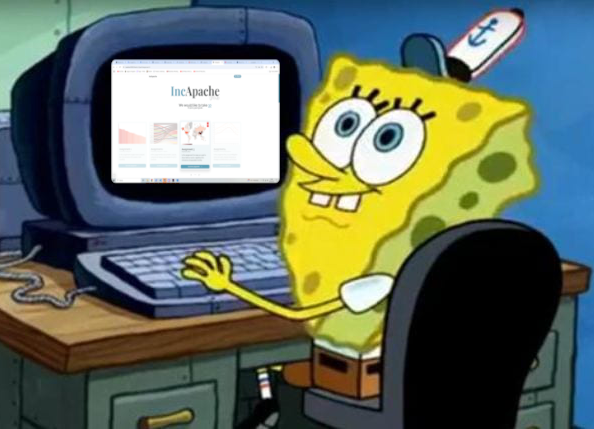
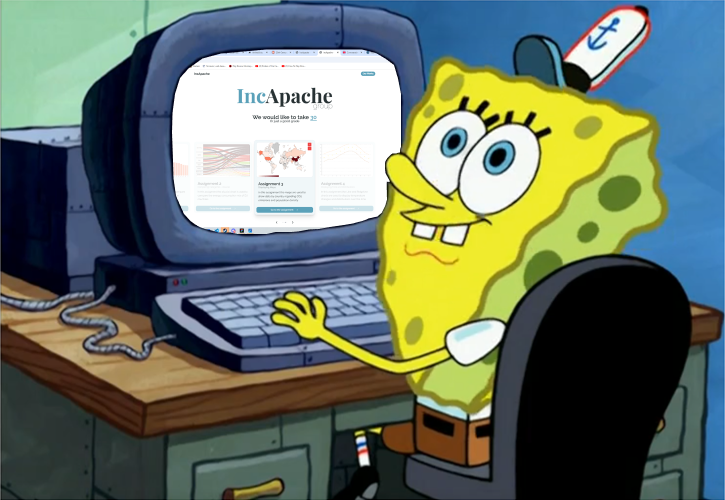
Maybe finished final project page, possible design for final project section of the home, fixed footer.

diff --git a/web-application/src/app/final-project/_components/introduction.tsx b/web-application/src/app/final-project/_components/introduction.tsx
@@ -36,7 +36,7 @@ export default function IntroductionFinalProject() {
         world effectively requires the right skills, as technological literacy
         is becoming increasingly essential. Our group has chosen the European
         Union as its area of interest and has decided to try to answer three
-        questions about this phenomenon:
+        questions about this phenomenon.
       </p>
 
       <div className="flex flex-col gap-12 items-center pt-16 w-full text-center">
@@ -49,7 +49,10 @@ export default function IntroductionFinalProject() {
                 What are the reasons why people do not have internet in their
                 homes?
               </li>
-              <li>How has usage changed over the years?</li>
+              <li>
+                How has the percentage of people who have never used the
+                Internet changed over the years?
+              </li>
               <li>How many people use a computer every day?</li>
             </ul>
           </div>
@@ -73,13 +76,15 @@ export default function IntroductionFinalProject() {
           <div className="flex flex-col gap-4 justify-center lg:text-left">
             <H3>What do we use this internet for?</H3>
             <ul className="text-lg">
-              <li>How many have access to the internet in their homes?</li>
+              <li>How often do people use the Internet?</li>
+              <li>Does the frequency of Internet use vary by age group?</li>
               <li>
-                What are the reasons why people do not have internet in their
-                homes?
+                Do people come across derogatory messages while surfing the web?
               </li>
-              <li>How has usage changed over the years?</li>
-              <li>How many people use a computer every day?</li>
+              <li>
+                What percentage of people do financial activities on the
+                internet?
+              </li>
             </ul>
           </div>
         </div>
@@ -88,13 +93,19 @@ export default function IntroductionFinalProject() {
           <div className="flex flex-col gap-4 justify-center lg:text-right">
             <H3>How skilled we are in this digital world?</H3>
             <ul className="text-lg">
-              <li>How many have access to the internet in their homes?</li>
               <li>
-                What are the reasons why people do not have internet in their
-                homes?
+                What is our level of digital skills and how do these change over
+                time?
               </li>
-              <li>How has usage changed over the years?</li>
-              <li>How many people use a computer every day?</li>
+              <li>
+                What is the distribution of male and female employees who
+                possess ICT skills?
+              </li>
+              <li>*PLACE HOLDER*</li>
+              <li>
+                Does the number of people who have ICT skills change depending
+                on their education level?
+              </li>
             </ul>
           </div>
           <Image

diff --git a/web-application/src/app/_components/final-project.tsx b/web-application/src/app/_components/final-project.tsx
@@ -1,11 +1,38 @@
 import Container from '@/components/container';
 import SectionTitle from './section-title';
+import { Button } from '@/components/ui/button';
+import Link from 'next/link';
+import { ChevronRight } from 'lucide-react';
 
 export default function FinalProject() {
   return (
-    <section className="min-h-screen scroll-mt-24" id="final-project">
-      <Container>
-        <SectionTitle>Final Project</SectionTitle>
+    <section className="scroll-mt-24" id="final-project">
+      <Container className="px-4 sm:px-10 md:px-12">
+        <SectionTitle>
+          What's the digitalization level of EU countries?
+        </SectionTitle>
+        <p className="text-lg text-center pt-6">
+          The internet has evolved at an unprecedented pace, transforming from a
+          simple communication tool into a fundamental pillar of modern society.
+          Alongside digitalization, it now permeates nearly every aspect of
+          daily life, from education and work to social interactions and
+          entertainment. This rapid expansion has created countless
+          opportunities but also challenges for individuals and businesses
+          alike. Navigating this digital world effectively requires the right
+          skills, as technological literacy is becoming increasingly essential.
+          Our group has chosen the European Union as its area of interest and
+          has decided to try to answer three questions about this phenomenon.
+        </p>
+        <div className="px-3 w-[min(300px,_100%)] mx-auto pt-12">
+          <Button
+            asChild
+            className="w-full text-lg rounded-[calc(theme(borderRadius.xl)_-_1px)]"
+          >
+            <Link href={'/final-project'} className="">
+              Learn more <ChevronRight className="ml-2" />
+            </Link>
+          </Button>
+        </div>
       </Container>
     </section>
   );

diff --git a/web-application/src/app/layout.tsx b/web-application/src/app/layout.tsx
@@ -30,6 +30,20 @@ export default function RootLayout({
     <html lang="en">
       <body className={`${sans_Serif.variable}\t${serif_font.variable}`}>
         {children}
+        <footer className="mt-auto pt-16">
+          <div className="flex justify-evenly p-6 bg-primary text-primary-foreground">
+            <div className="w-full">
+              <div className="w-fit">
+                <h1 className="font-serif font-bold text-lg/3">IncApache</h1>
+                <h2 className="font-serif text-xs/3 text-end">Group</h2>
+              </div>
+            </div>
+            <p className="w-full text-end text-base/4">
+              <span className="font-semibold">University of Genova</span>
+              <br /> project for Data Visualization Exam
+            </p>
+          </div>
+        </footer>
       </body>
     </html>
   );

diff --git a/web-application/src/app/final-project/_components/arguments.tsx b/web-application/src/app/final-project/_components/arguments.tsx
@@ -48,7 +48,7 @@ const Arguments: React.FC<ArgumentsProps> = ({ className }) => {
   return (
     <section
       className={cn(
-        'flex flex-wrap items-center justify-center overflow-x-hidden pt-32 pb-9 scroll-mt-24 xs:mx-8 gap-8',
+        'flex flex-wrap items-center justify-center overflow-x-hidden pt-12 sm:pt-20 pb-16 lg:pt-32 lg:pb-16 scroll-mt-24 xs:mx-8 gap-10',
         className
       )}
       id="arguments"

diff --git a/web-application/src/app/page.tsx b/web-application/src/app/page.tsx
@@ -17,7 +17,6 @@ export default function Homepage() {
       </Suspense>
       <FinalProject />
       <WhoWeAre />
-      <TeckStack />
     </main>
   );
 }
